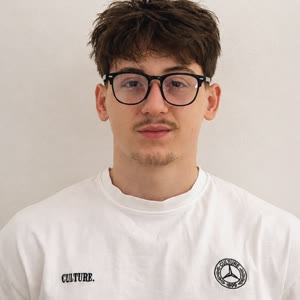
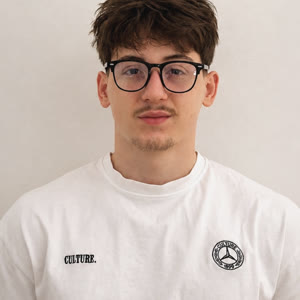
Oprava: klik na recenzi otevře modal (zrušen pointer capture); Štěpán a Matěj - oči zarovnané a vycentrované

diff --git a/index.html b/index.html
@@ -1210,11 +1210,11 @@ body.rv-lock{overflow:hidden}
     if(nx)nx.addEventListener('click',function(){step(1);});
     var down=false,sx=0,sp=0,moved=false;
     if(marq){
-      marq.addEventListener('pointerdown',function(e){down=true;dragging=true;moved=false;sx=e.clientX;sp=pos;marq.classList.add('dragging');try{marq.setPointerCapture(e.pointerId);}catch(_){}});
-      marq.addEventListener('pointermove',function(e){if(!down)return;var dx=e.clientX-sx;if(Math.abs(dx)>5)moved=true;pos=sp-dx;render();});
-      var endDrag=function(){if(!down)return;down=false;dragging=false;marq.classList.remove('dragging');};
-      marq.addEventListener('pointerup',endDrag);
-      marq.addEventListener('pointercancel',endDrag);
+      marq.addEventListener('pointerdown',function(e){down=true;dragging=true;moved=false;sx=e.clientX;sp=pos;marq.classList.add('dragging');});
+      window.addEventListener('pointermove',function(e){if(!down)return;var dx=e.clientX-sx;if(Math.abs(dx)>5)moved=true;pos=sp-dx;render();});
+      var endDrag=function(){if(!down)return;down=false;dragging=false;marq.classList.remove('dragging');setTimeout(function(){moved=false;},0);};
+      window.addEventListener('pointerup',endDrag);
+      window.addEventListener('pointercancel',endDrag);
     }
     function openM(k){var d=data[k];if(!d)return;
       document.getElementById('rvmText').textContent='„'+d.t+'"';
